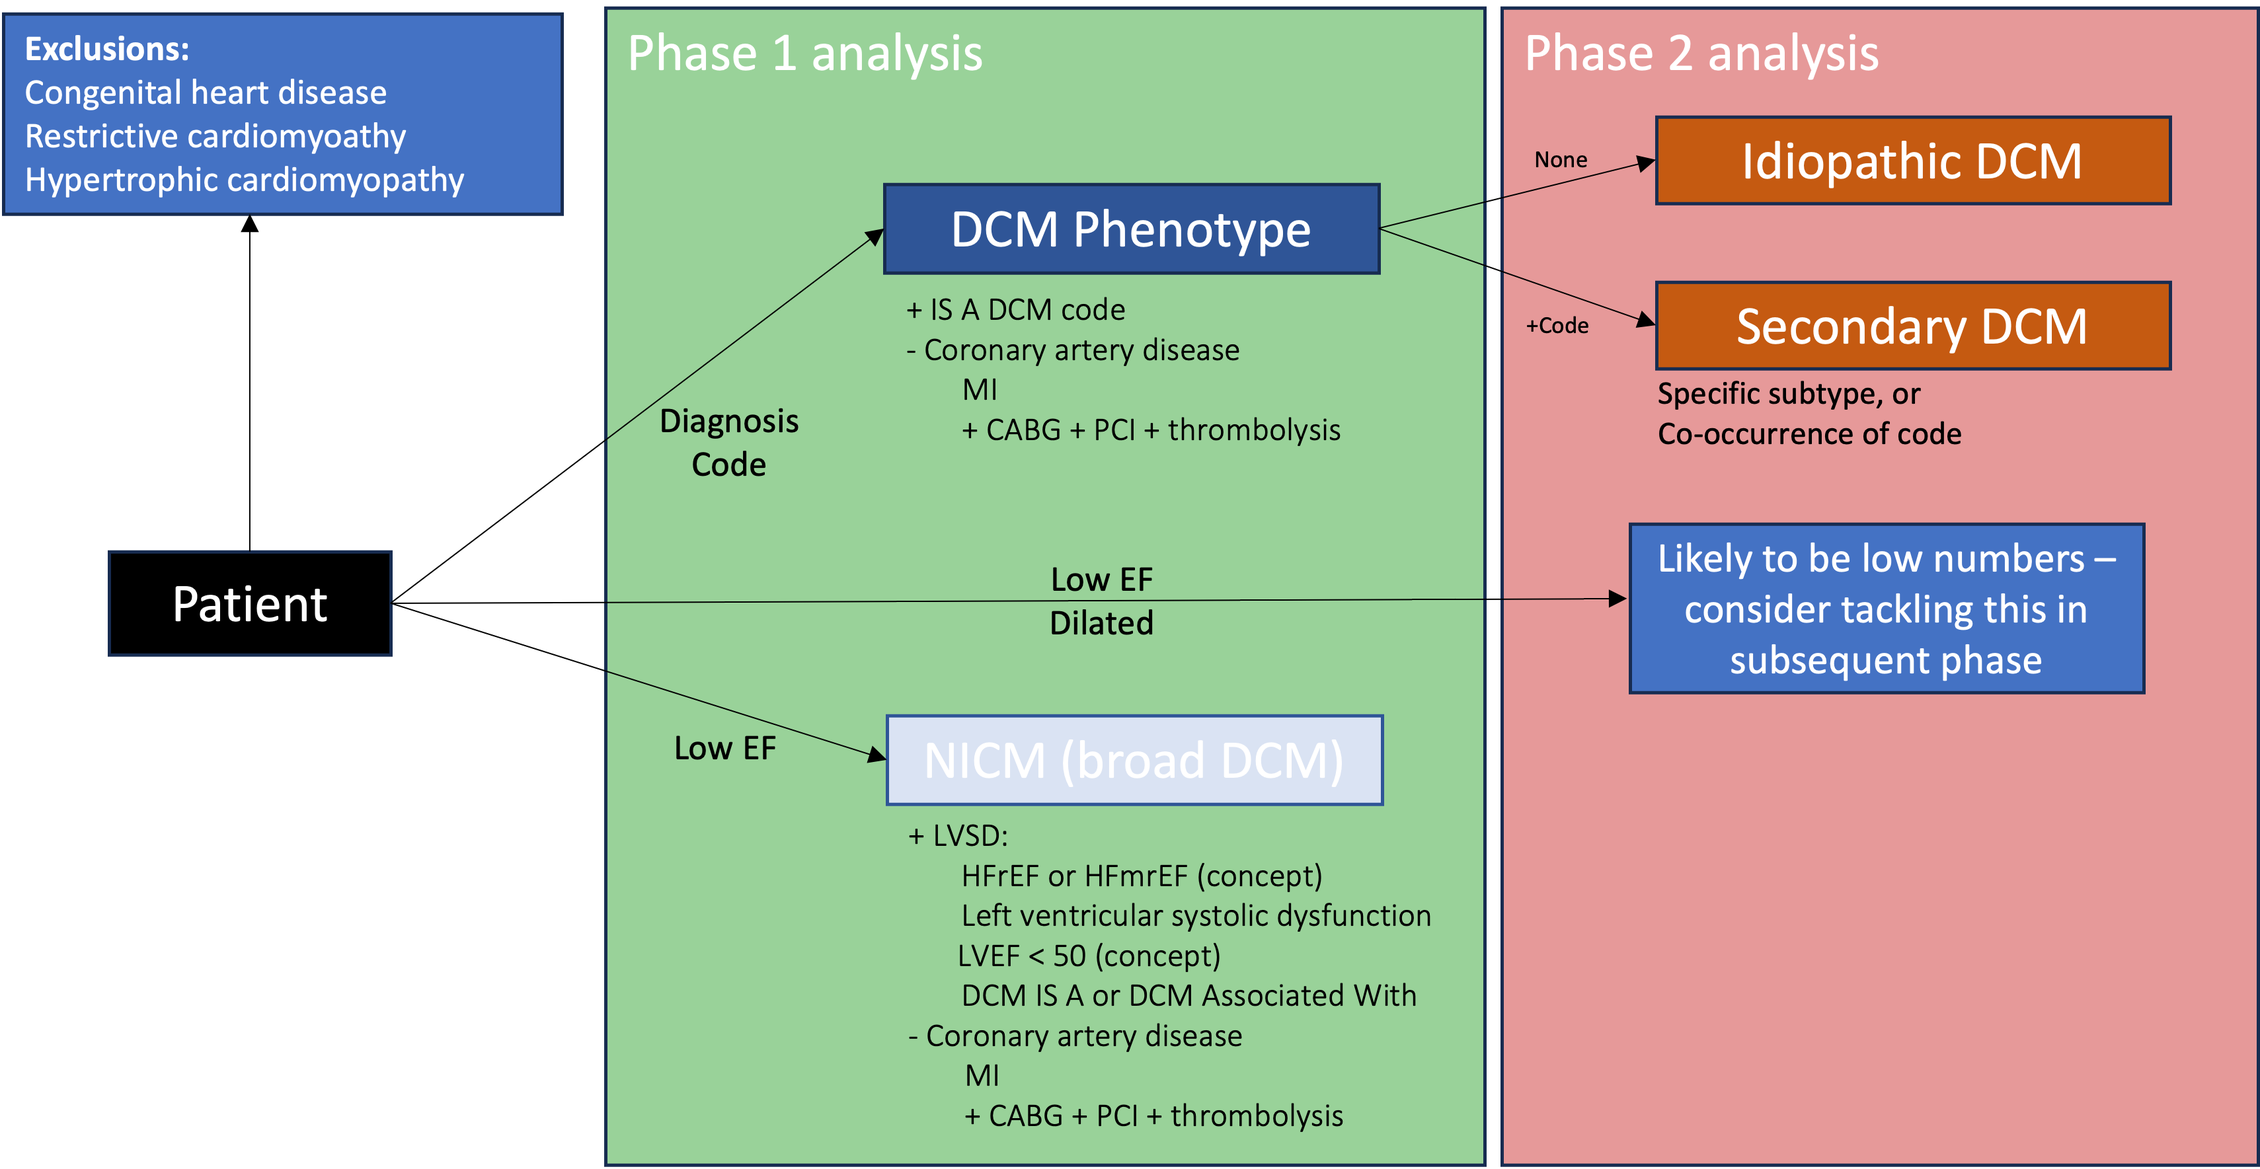
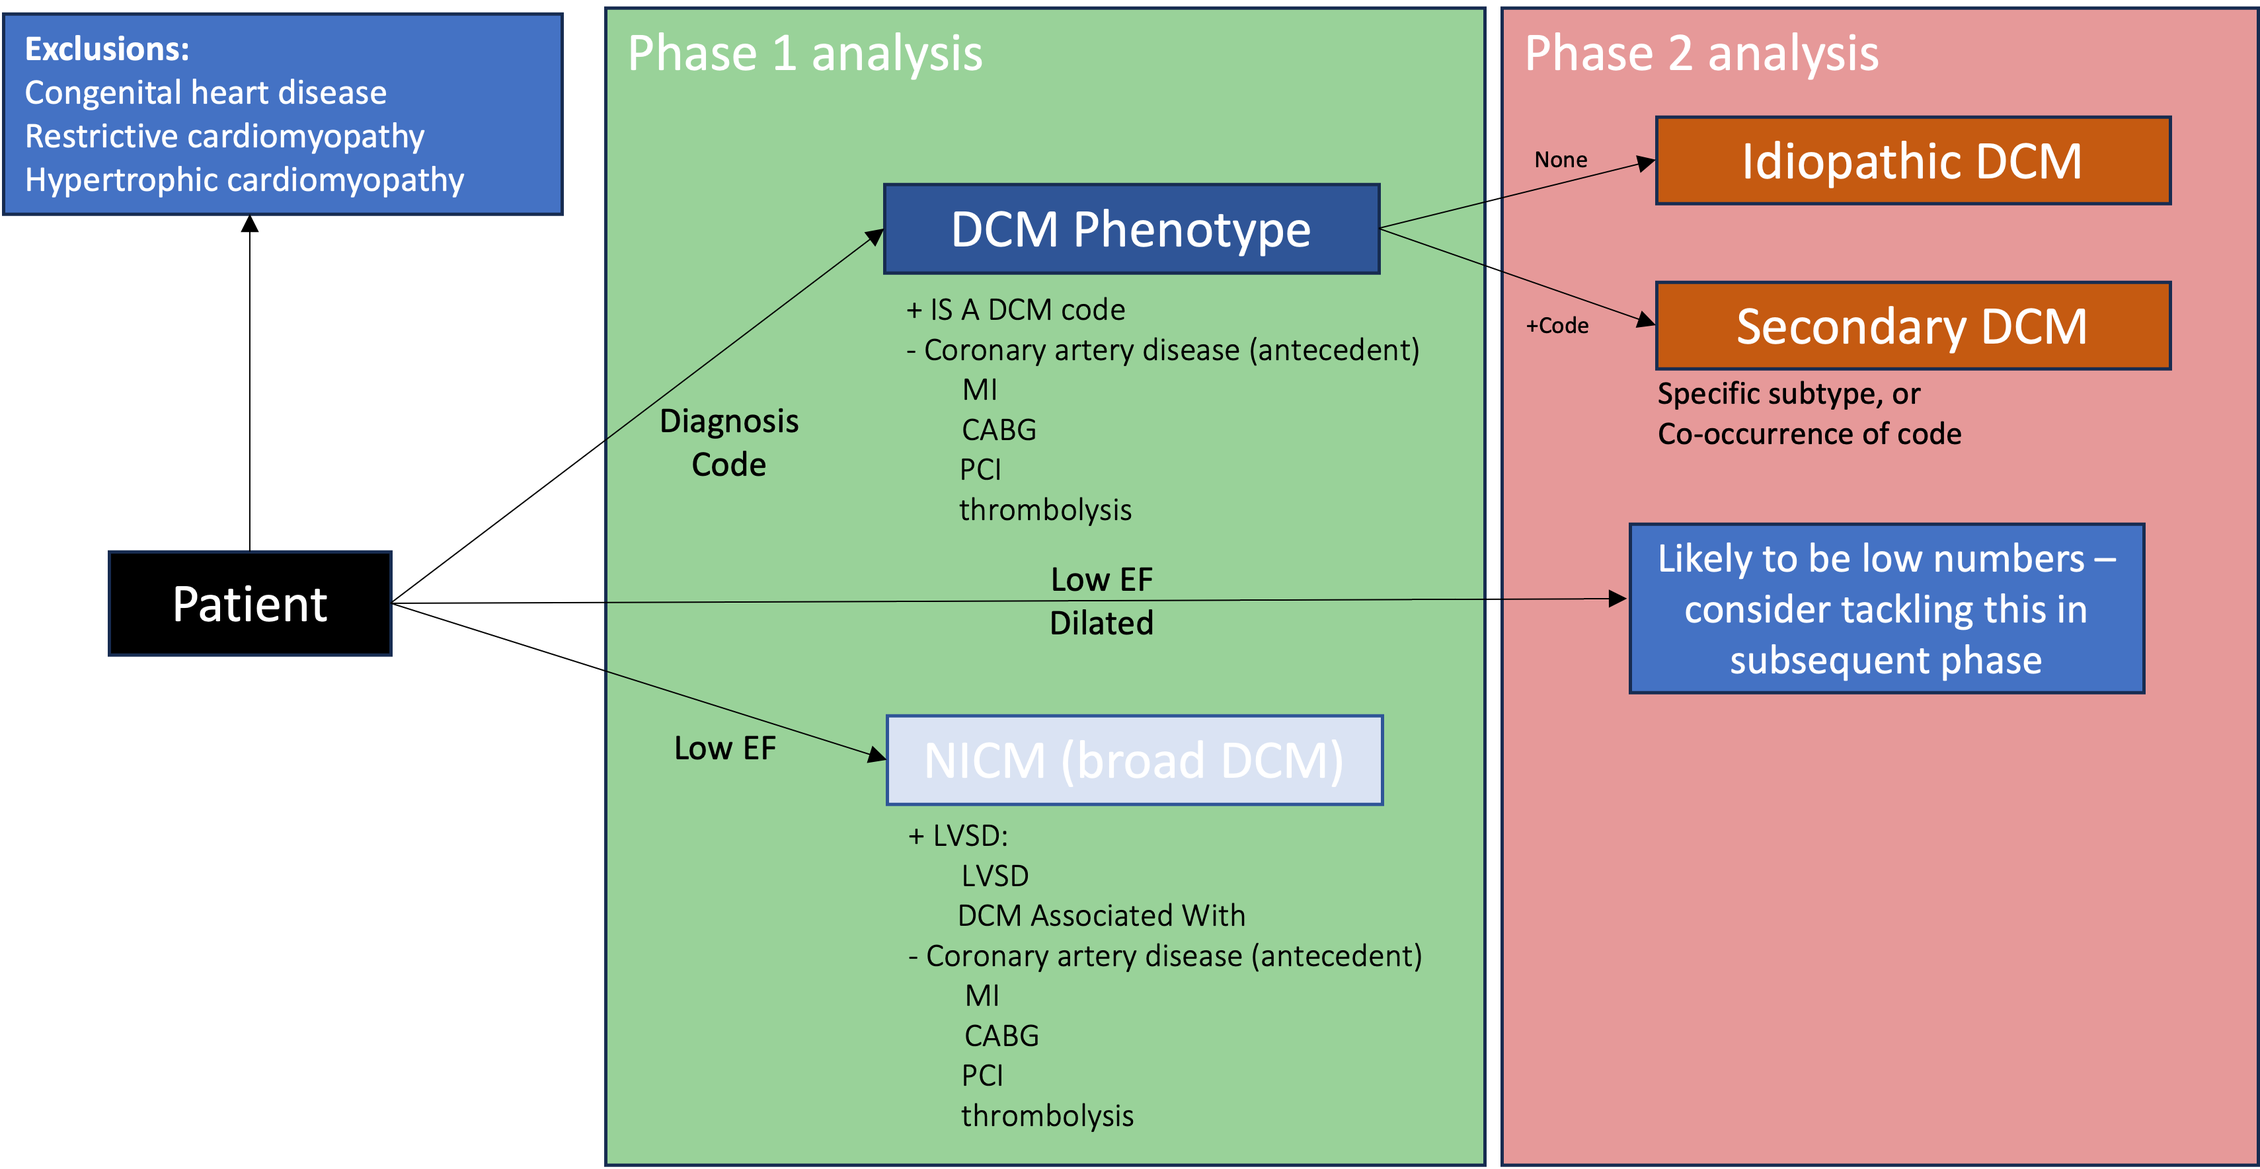
Deploying to gh-pages from @ nicksunderland/heRmes@6b9459b9294f19d0c0945c08d593798210735e2e 🚀

diff --git a/articles/nih_cardiomyopathy.html b/articles/nih_cardiomyopathy.html
@@ -108,6 +108,10 @@ Download cardiomyopathy_metadata.tsv </button> </a></p>
 <div class="section level2">
 <h2 id="classifiers">Classifiers<a class="anchor" aria-label="anchor" href="#classifiers"></a>
 </h2>
+<p>* myocardial infarction and revascularisation exclusion should be
+made based on codes appearing prior to the DCM / NICM inclusion codes -
+i.e. exclusion antecedent ischaemic events but allowing ischaemic events
+that happen after the DCM / NICM diagnosis.</p>
 <table class="table">
 <colgroup>
 <col width="8%">
@@ -126,10 +130,10 @@ Download cardiomyopathy_metadata.tsv </button> </a></p>
 <th>CongHD</th>
 <th>HCM</th>
 <th>RCM</th>
-<th>MI</th>
-<th>CABG</th>
-<th>PCI</th>
-<th>Thrombolysis</th>
+<th>MI*</th>
+<th>CABG*</th>
+<th>PCI*</th>
+<th>Thrombolysis*</th>
 <th>DCM</th>
 <th>DCM_AssW</th>
 <th>LVSD</th>
@@ -282,7 +286,7 @@ Download cardiomyopathy_metadata.tsv </button> </a></p>
 </tbody>
 </table>
 <p><em>Figure 1. Phenotyping algorithm</em></p>
-<p><img src="figures/nih_phenotyping_algorithm.png" align="centre" width="100%"></p>
+<p><img src="figures%2Fnih_phenotyping_algorithm.png" align="centre" width="100%"></p>
 <hr>
 </div>
 <div class="section level2">
@@ -297,7 +301,7 @@ or coronary artery disease. (ESC, 2023).</p>
 <p><strong>Search expressions:</strong>
 <code>(399020009) | ((?i)cardiomyopath(y|ies))</code>.</p>
 <center>
-<p><img src="figures/counts_DCM_IsA.png"></p>
+<p><img src="figures%2Fcounts_DCM_IsA.png"></p>
 </center>
 <table class="table">
 <thead><tr class="header">
@@ -325,7 +329,7 @@ or coronary artery disease. (ESC, 2023).</p>
 <p><strong>Search expressions:</strong>
 <code>(399020009) | ((?i)cardiomyopath(y|ies))</code>.</p>
 <center>
-<p><img src="figures/counts_DCM_AssociatedWith.png"></p>
+<p><img src="figures%2Fcounts_DCM_AssociatedWith.png"></p>
 </center>
 <table class="table">
 <colgroup>
@@ -421,7 +425,7 @@ ejection fraction with LVEF 40-49%..</p>
 <p><strong>Search expressions:</strong>
 <code>(systolic .*(dys-?function|failure|insufficiency)) | (134401001)</code>.</p>
 <center>
-<p><img src="figures/counts_LVSD_IsA.png"></p>
+<p><img src="figures%2Fcounts_LVSD_IsA.png"></p>
 </center>
 <table class="table">
 <colgroup>
@@ -557,7 +561,7 @@ thrombosis on angiography or aithopsy)..</p>
 <p><strong>Search expressions:</strong>
 <code>(22298006) | ((?i)myocardial infarction) | ((?i)acute ischa?emic heart disease) | ((?i)acute .*coronary .*(disease|dysfunction)) | ((?i)dressler)</code>.</p>
 <center>
-<p><img src="figures/counts_Myocardial_infarction.png"></p>
+<p><img src="figures%2Fcounts_Myocardial_infarction.png"></p>
 </center>
 <table class="table">
 <colgroup>
@@ -952,7 +956,7 @@ and connected to the aorta..</p>
 <p><strong>Search expressions:</strong>
 <code>(K4[0-9][0-9]?) | (K50[0-9]?|K75[0-9]?) | ((?i)coronary (artery )?bypass) | ((?i)aortocoronary bypass) | (CABG) | ((?i)(graft|replacement|connection|anastomosis|implantation|bypass|repair|operations?|open angioplasty) .*coronary arter(y|ies)) | (232717009)</code>.</p>
 <center>
-<p><img src="figures/counts_Coronary_artery_bypass_grafting.png"></p>
+<p><img src="figures%2Fcounts_Coronary_artery_bypass_grafting.png"></p>
 </center>
 <table class="table">
 <colgroup>
@@ -1447,7 +1451,7 @@ considered a PCI procedure..</p>
 <p><strong>Search expressions:</strong>
 <code>(K49[0-9]+?|K50[0-9]+|K75[0-9]+) | ((?i)percutaneous coronary intervention) | ((?i)(percutaneous|transluminal) .*(angioplasty|stent|thrombolysis|thrombectomy|therapeutic|atherectomy|operations|lithotripsy).*coronar(y|ies)) | ((?i)(percutaneous|transluminal) .*coronar(y|ies) .*(angioplasty|stent|thrombolysis|thrombectomy|therapeutic|atherectomy|operations|lithotripsy)) | (415070008)</code>.</p>
 <center>
-<p><img src="figures/counts_Percutaneous_coronary_intervent.png"></p>
+<p><img src="figures%2Fcounts_Percutaneous_coronary_intervent.png"></p>
 </center>
 <table class="table">
 <colgroup>
@@ -1808,7 +1812,7 @@ thrombosis..</p>
 <p><strong>Search expressions:</strong>
 <code>(K502) | (coronary thrombolysis) | ((?i)thrombolytic) | (thrombolysis) | (32912007)</code>.</p>
 <center>
-<p><img src="figures/counts_Thrombolysis_coronary.png"></p>
+<p><img src="figures%2Fcounts_Thrombolysis_coronary.png"></p>
 </center>
 <table class="table">
 <colgroup>
@@ -1860,7 +1864,7 @@ They are fault or problems that are present from birth..</p>
 <p><strong>Search expressions:</strong>
 <code>(13213009) | (Q2[0-6][0-9]?) | ((?i)congenital.*(heart|cardiac)) | ((?i)(heart|cardiac).*congenital) | ((?i)congenital .*(pulmonary|tricuspid|aortic|mitral) .*valves?) | ((?i)(congenital|transposition) .*great (arter[y|ies]|veins?)) | ((?i)fontan|fallot) | ((?i)(double outlet|single) .*ventricle) | ((?i)(atrial|ventric[ulare]+|aortopulmonary) septal defect) | ((?i)cor triatriatum|truncus arteriosus)</code>.</p>
 <center>
-<p><img src="figures/counts_Congenital_heart_disease.png"></p>
+<p><img src="figures%2Fcounts_Congenital_heart_disease.png"></p>
 </center>
 <table class="table">
 <colgroup>
@@ -2411,7 +2415,7 @@ defines procedures for congenital heart disease..</p>
 <p><strong>Search expressions:</strong>
 <code>(K[0-3].*) | (K(29[67]|305|336|34[56]|35[467]|36[12]|37[1-6]|38[56]|482|577)) | (K76.*) | (L0.*) | (L1[0-3][0-9]?) | ((?i)congenital.*(heart|cardiac)) | ((?i)(heart|cardiac).*congenital) | ((?i)congenital .*(pulmonary|tricuspid|aortic|mitral) .*valves?) | ((?i)(congenital|transposition) .*great (arter[y|ies]|veins?)) | ((?i)fontan|norwood|fallot|blalock|mustard|senning|nikaidoh|jatene|rastelli) | ((?i)(double outlet|single) .*ventricle) | ((?i)(atrial|ventric[ulare]+|aortopulmonary) septal defect) | ((?i)cor triatriatum|truncus arteriosus) | (9359[3-7]) | (93594)</code>.</p>
 <center>
-<p><img src="figures/counts_Congenital_heart_procedure.png"></p>
+<p><img src="figures%2Fcounts_Congenital_heart_procedure.png"></p>
 </center>
 <table class="table">
 <colgroup>
@@ -3733,7 +3737,7 @@ or reduced systolic volumes, and normal ventricular wall thickness.
 <p><strong>Search expressions:</strong>
 <code>(415295002) | ((?i)(restrictive|constrictive) (cardiomyopath.*|heart failure)) | ((?i)(cardiomyopath.*|heart failure).*(restrictive|constrictive))</code>.</p>
 <center>
-<p><img src="figures/counts_RCM_IsA.png"></p>
+<p><img src="figures%2Fcounts_RCM_IsA.png"></p>
 </center>
 <table class="table">
 <thead><tr class="header">
@@ -3761,7 +3765,7 @@ conditions. (ESC, 2023).</p>
 <p><strong>Search expressions:</strong>
 <code>(233873004) | ((?i)cardiomyopath(y|ies))</code>.</p>
 <center>
-<p><img src="figures/counts_HCM_IsA.png"></p>
+<p><img src="figures%2Fcounts_HCM_IsA.png"></p>
 </center>
 <table class="table">
 <thead><tr class="header">
@@ -3804,7 +3808,7 @@ conditions. (ESC, 2023).</p>
 </div>
 
 <div class="pkgdown-footer-right">
-  <p>Site built with <a href="https://pkgdown.r-lib.org/" class="external-link">pkgdown</a> 2.1.0.</p>
+  <p>Site built with <a href="https://pkgdown.r-lib.org/" class="external-link">pkgdown</a> 2.1.1.</p>
 </div>
 
     </footer>

diff --git a/articles/hermes_3.html b/articles/hermes_3.html
@@ -285,7 +285,7 @@ HF, and non-ischaemic HF (phenotypes 1-3)</em></p>
 </tbody>
 </table>
 <p><em>Figure 1. Phenotyping algorithm</em></p>
-<p><img src="figures/phenotyping_algorithm.png" align="centre" width="100%"></p>
+<p><img src="figures%2Fphenotyping_algorithm.png" align="centre" width="100%"></p>
 <hr>
 </div>
 </div>
@@ -305,7 +305,7 @@ during exercise..</p>
 <p><strong>Search expressions:</strong>
 <code>(84114007) | ((?i)(heart|cardiac|ventricular) failure) | ((?i)cardiac insufficiency) | ( HF )</code>.</p>
 <center>
-<p><img src="figures/counts_HF_IsA.png"></p>
+<p><img src="figures%2Fcounts_HF_IsA.png"></p>
 </center>
 <table class="table">
 <colgroup>
@@ -724,7 +724,7 @@ thrombosis on angiography or aithopsy)..</p>
 <p><strong>Search expressions:</strong>
 <code>(22298006) | ((?i)myocardial infarction) | ((?i)acute ischa?emic heart disease) | ((?i)acute .*coronary .*(disease|dysfunction)) | ((?i)dressler)</code>.</p>
 <center>
-<p><img src="figures/counts_Myocardial_infarction.png"></p>
+<p><img src="figures%2Fcounts_Myocardial_infarction.png"></p>
 </center>
 <table class="table">
 <colgroup>
@@ -1119,7 +1119,7 @@ and connected to the aorta..</p>
 <p><strong>Search expressions:</strong>
 <code>(K4[0-9][0-9]?) | (K50[0-9]?|K75[0-9]?) | ((?i)coronary (artery )?bypass) | ((?i)aortocoronary bypass) | (CABG) | ((?i)(graft|replacement|connection|anastomosis|implantation|bypass|repair|operations?|open angioplasty) .*coronary arter(y|ies)) | (232717009)</code>.</p>
 <center>
-<p><img src="figures/counts_Coronary_artery_bypass_grafting.png"></p>
+<p><img src="figures%2Fcounts_Coronary_artery_bypass_grafting.png"></p>
 </center>
 <table class="table">
 <colgroup>
@@ -1614,7 +1614,7 @@ considered a PCI procedure..</p>
 <p><strong>Search expressions:</strong>
 <code>(K49[0-9]+?|K50[0-9]+|K75[0-9]+) | ((?i)percutaneous coronary intervention) | ((?i)(percutaneous|transluminal) .*(angioplasty|stent|thrombolysis|thrombectomy|therapeutic|atherectomy|operations|lithotripsy).*coronar(y|ies)) | ((?i)(percutaneous|transluminal) .*coronar(y|ies) .*(angioplasty|stent|thrombolysis|thrombectomy|therapeutic|atherectomy|operations|lithotripsy)) | (415070008)</code>.</p>
 <center>
-<p><img src="figures/counts_Percutaneous_coronary_intervent.png"></p>
+<p><img src="figures%2Fcounts_Percutaneous_coronary_intervent.png"></p>
 </center>
 <table class="table">
 <colgroup>
@@ -1975,7 +1975,7 @@ thrombosis..</p>
 <p><strong>Search expressions:</strong>
 <code>(K502) | (coronary thrombolysis) | ((?i)thrombolytic) | (thrombolysis) | (32912007)</code>.</p>
 <center>
-<p><img src="figures/counts_Thrombolysis_coronary.png"></p>
+<p><img src="figures%2Fcounts_Thrombolysis_coronary.png"></p>
 </center>
 <table class="table">
 <colgroup>
@@ -2027,7 +2027,7 @@ They are fault or problems that are present from birth..</p>
 <p><strong>Search expressions:</strong>
 <code>(13213009) | (Q2[0-6][0-9]?) | ((?i)congenital.*(heart|cardiac)) | ((?i)(heart|cardiac).*congenital) | ((?i)congenital .*(pulmonary|tricuspid|aortic|mitral) .*valves?) | ((?i)(congenital|transposition) .*great (arter[y|ies]|veins?)) | ((?i)fontan|fallot) | ((?i)(double outlet|single) .*ventricle) | ((?i)(atrial|ventric[ulare]+|aortopulmonary) septal defect) | ((?i)cor triatriatum|truncus arteriosus)</code>.</p>
 <center>
-<p><img src="figures/counts_Congenital_heart_disease.png"></p>
+<p><img src="figures%2Fcounts_Congenital_heart_disease.png"></p>
 </center>
 <table class="table">
 <colgroup>
@@ -2578,7 +2578,7 @@ defines procedures for congenital heart disease..</p>
 <p><strong>Search expressions:</strong>
 <code>(K[0-3].*) | (K(29[67]|305|336|34[56]|35[467]|36[12]|37[1-6]|38[56]|482|577)) | (K76.*) | (L0.*) | (L1[0-3][0-9]?) | ((?i)congenital.*(heart|cardiac)) | ((?i)(heart|cardiac).*congenital) | ((?i)congenital .*(pulmonary|tricuspid|aortic|mitral) .*valves?) | ((?i)(congenital|transposition) .*great (arter[y|ies]|veins?)) | ((?i)fontan|norwood|fallot|blalock|mustard|senning|nikaidoh|jatene|rastelli) | ((?i)(double outlet|single) .*ventricle) | ((?i)(atrial|ventric[ulare]+|aortopulmonary) septal defect) | ((?i)cor triatriatum|truncus arteriosus) | (9359[3-7]) | (93594)</code>.</p>
 <center>
-<p><img src="figures/counts_Congenital_heart_procedure.png"></p>
+<p><img src="figures%2Fcounts_Congenital_heart_procedure.png"></p>
 </center>
 <table class="table">
 <colgroup>
@@ -4001,7 +4001,7 @@ the American Heart Association</em>. 2021;10(4):e019238. doi:<a href="https://do
 </div>
 
 <div class="pkgdown-footer-right">
-  <p>Site built with <a href="https://pkgdown.r-lib.org/" class="external-link">pkgdown</a> 2.1.0.</p>
+  <p>Site built with <a href="https://pkgdown.r-lib.org/" class="external-link">pkgdown</a> 2.1.1.</p>
 </div>
 
     </footer>

diff --git a/articles/ukbb_phenotyping.html b/articles/ukbb_phenotyping.html
@@ -87,7 +87,7 @@
 <span>          labels     <span class="op">=</span> <span class="cn">FALSE</span>,</span>
 <span>          main       <span class="op">=</span> <span class="fu"><a href="https://rdrr.io/r/base/list.html" class="external-link">list</a></span><span class="op">(</span>label <span class="op">=</span> <span class="st">"UKBB Heart failure phenotyping"</span>, fontsize <span class="op">=</span> <span class="fl">8</span>, font <span class="op">=</span> <span class="fl">2</span><span class="op">)</span>,</span>
 <span>          legend     <span class="op">=</span> <span class="fu"><a href="https://rdrr.io/r/base/list.html" class="external-link">list</a></span><span class="op">(</span>fontsize <span class="op">=</span> <span class="fl">8</span><span class="op">)</span><span class="op">)</span></span></code></pre></div>
-<p><img src="figures/README-plot_hermes_ukbb.png" align="centre" width="80%"></p>
+<p><img src="figures%2FREADME-plot_hermes_ukbb.png" align="centre" width="80%"></p>
 <hr>
 </div>
 <div class="section level3">
@@ -97,7 +97,7 @@
 failure phenotypes in the UKHDR Phenotype library.</p>
 <div class="sourceCode" id="cb3"><pre class="downlit sourceCode r">
 <code class="sourceCode R"><span><span class="fu"><a href="../reference/plot_code_overlap.html">plot_code_overlap</a></span><span class="op">(</span>pheno_ids <span class="op">=</span> <span class="va">hermes_phenos</span>, types <span class="op">=</span> <span class="fu"><a href="https://rdrr.io/r/base/c.html" class="external-link">c</a></span><span class="op">(</span><span class="st">"ICD10 codes"</span><span class="op">)</span><span class="op">)</span></span></code></pre></div>
-<p><img src="figures/README-plot_hermes-1.png" align="centre" width="80%"></p>
+<p><img src="figures%2FREADME-plot_hermes-1.png" align="centre" width="80%"></p>
 <hr>
 </div>
 <div class="section level3">
@@ -105,7 +105,7 @@ failure phenotypes in the UKHDR Phenotype library.</p>
 </h3>
 <p>Co-occurrence matrix of heart failure (PH1645) and cardiomyopathy
 (PH1646) codes.</p>
-<p><img src="figures/cooccurrence.png" align="centre" width="100%"></p>
+<p><img src="figures%2Fcooccurrence.png" align="centre" width="100%"></p>
 <hr>
 </div>
   </main><aside class="col-md-3"><nav id="toc" aria-label="Table of contents"><h2>On this page</h2>
@@ -119,7 +119,7 @@ failure phenotypes in the UKHDR Phenotype library.</p>
 </div>
 
 <div class="pkgdown-footer-right">
-  <p>Site built with <a href="https://pkgdown.r-lib.org/" class="external-link">pkgdown</a> 2.1.0.</p>
+  <p>Site built with <a href="https://pkgdown.r-lib.org/" class="external-link">pkgdown</a> 2.1.1.</p>
 </div>
 
     </footer>

diff --git a/pkgdown.js b/pkgdown.js
@@ -152,3 +152,11 @@ async function searchFuse(query, callback) {
   });
   });
 })(window.jQuery || window.$)
+
+document.addEventListener('keydown', function(event) {
+  // Check if the pressed key is '/'
+  if (event.key === '/') {
+    event.preventDefault();  // Prevent any default action associated with the '/' key
+    document.getElementById('search-input').focus();  // Set focus to the search input
+  }
+});

diff --git a/reference/phenotype.html b/reference/phenotype.html
@@ -125,7 +125,7 @@ Element 3: a character vector, one or more of: 'x' (apply to codes in <code>x</c
 </div>
 
 <div class="pkgdown-footer-right">
-  <p>Site built with <a href="https://pkgdown.r-lib.org/" class="external-link">pkgdown</a> 2.1.0.</p>
+  <p>Site built with <a href="https://pkgdown.r-lib.org/" class="external-link">pkgdown</a> 2.1.1.</p>
 </div>
 
     </footer></div>

diff --git a/authors.html b/authors.html
@@ -70,7 +70,7 @@ R package version 0.0.0.9000, <a href="https://nicksunderland.github.io/heRmes/"
 </div>
 
 <div class="pkgdown-footer-right">
-  <p>Site built with <a href="https://pkgdown.r-lib.org/" class="external-link">pkgdown</a> 2.1.0.</p>
+  <p>Site built with <a href="https://pkgdown.r-lib.org/" class="external-link">pkgdown</a> 2.1.1.</p>
 </div>
 
     </footer></div>

diff --git a/404.html b/404.html
@@ -67,7 +67,7 @@ Content not found. Please use links in the navbar.
 </div>
 
 <div class="pkgdown-footer-right">
-  <p>Site built with <a href="https://pkgdown.r-lib.org/" class="external-link">pkgdown</a> 2.1.0.</p>
+  <p>Site built with <a href="https://pkgdown.r-lib.org/" class="external-link">pkgdown</a> 2.1.1.</p>
 </div>
 
     </footer>

diff --git a/LICENSE-text.html b/LICENSE-text.html
@@ -48,7 +48,7 @@ COPYRIGHT HOLDER: heRmes authors
 </div>
 
 <div class="pkgdown-footer-right">
-  <p>Site built with <a href="https://pkgdown.r-lib.org/" class="external-link">pkgdown</a> 2.1.0.</p>
+  <p>Site built with <a href="https://pkgdown.r-lib.org/" class="external-link">pkgdown</a> 2.1.1.</p>
 </div>
 
     </footer></div>

diff --git a/LICENSE.html b/LICENSE.html
@@ -52,7 +52,7 @@
 </div>
 
 <div class="pkgdown-footer-right">
-  <p>Site built with <a href="https://pkgdown.r-lib.org/" class="external-link">pkgdown</a> 2.1.0.</p>
+  <p>Site built with <a href="https://pkgdown.r-lib.org/" class="external-link">pkgdown</a> 2.1.1.</p>
 </div>
 
     </footer></div>

diff --git a/articles/index.html b/articles/index.html
@@ -54,7 +54,7 @@
 </div>
 
 <div class="pkgdown-footer-right">
-  <p>Site built with <a href="https://pkgdown.r-lib.org/" class="external-link">pkgdown</a> 2.1.0.</p>
+  <p>Site built with <a href="https://pkgdown.r-lib.org/" class="external-link">pkgdown</a> 2.1.1.</p>
 </div>
 
     </footer></div>

diff --git a/reference/get_codes.html b/reference/get_codes.html
@@ -72,7 +72,7 @@
 </div>
 
 <div class="pkgdown-footer-right">
-  <p>Site built with <a href="https://pkgdown.r-lib.org/" class="external-link">pkgdown</a> 2.1.0.</p>
+  <p>Site built with <a href="https://pkgdown.r-lib.org/" class="external-link">pkgdown</a> 2.1.1.</p>
 </div>
 
     </footer></div>

diff --git a/reference/get_metadata.html b/reference/get_metadata.html
@@ -68,7 +68,7 @@
 </div>
 
 <div class="pkgdown-footer-right">
-  <p>Site built with <a href="https://pkgdown.r-lib.org/" class="external-link">pkgdown</a> 2.1.0.</p>
+  <p>Site built with <a href="https://pkgdown.r-lib.org/" class="external-link">pkgdown</a> 2.1.1.</p>
 </div>
 
     </footer></div>
